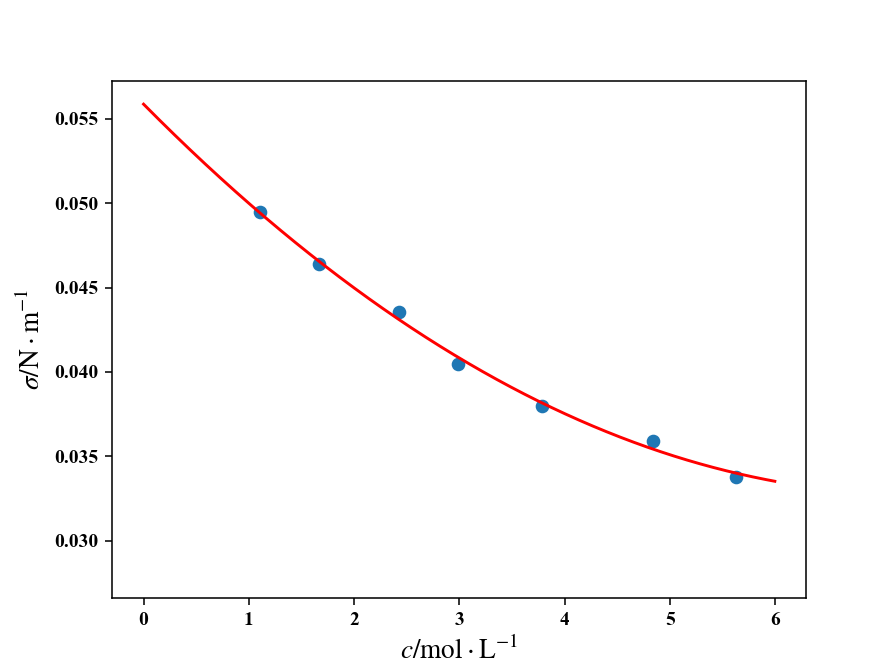
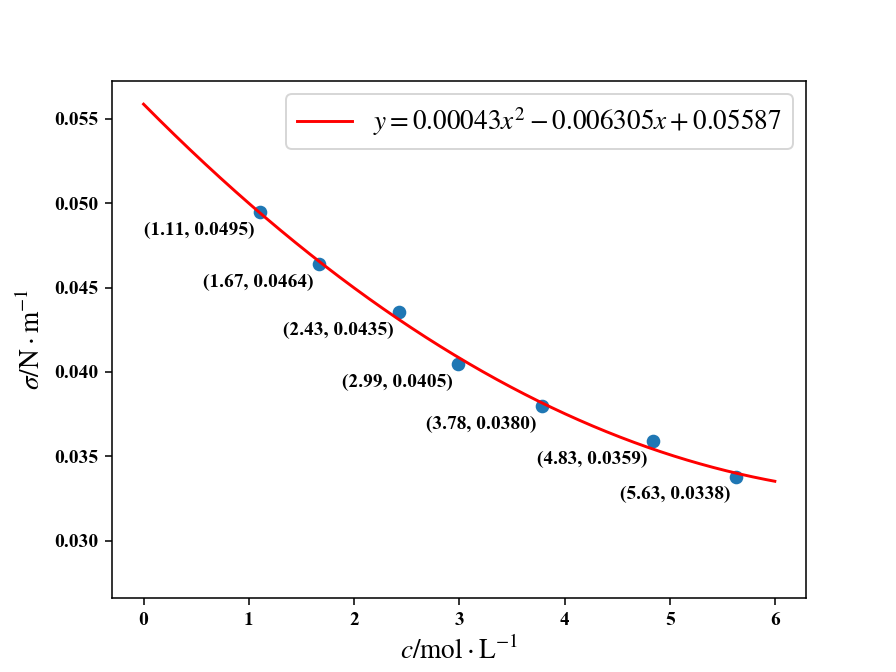
:zap: finish exp7

diff --git a/Exp7_1.py b/Exp7_1.py
@@ -1,7 +1,7 @@
 import numpy as np
 import matplotlib.pyplot as plt
 from matplotlib import rcParams
-from Exp7_data import lquin, sol
+from Exp7_data import lquin, c, fit, df, gama, sigma
 
 config = {
     "font.family":'serif',
@@ -12,14 +12,8 @@ config = {
 rcParams.update(config)
 plt.rcParams['font.serif'] = ['Times New Roman']
 
-p = np.array([0.259, 0.243, 0.228, 0.212, 0.199, 0.188, 0.177])
-p = p
-K = 71.79/376
-s = p * K
-
-fit = np.poly1d(np.polyfit(sol(lquin), s, 2))
 print('f(x) = ', fit)
-print('df/dx = ',fit.deriv())
+print('df/dx = ',df)
 line_x = np.arange(0, 6, 0.005)
 
 plt.xticks(fontsize=10)
@@ -27,8 +21,12 @@ plt.yticks(fontsize=10)
 plt.xlabel('$c\mathrm{/mol\cdot L^{-1}}$', fontsize=14)
 plt.ylabel('$\sigma \mathrm{/N\cdot m^{-1}}$', fontsize=14)
 
-plt.scatter(sol(lquin), s)
-plt.plot(line_x, fit(line_x), c='r')
+plt.scatter(c, sigma)
+plt.plot(line_x, fit(line_x), c='r', label='$y=0.00043x^{2}-0.006305x+0.05587$')
+for i in range(len(lquin)):
+    plt.annotate('(%.2f, %.4f)'%(c[i], sigma[i]), xy=(c[i]-1.1, sigma[i]-0.0013))
+    print("f'(%f) = "%c[i], df(c[i]))
+    print("Gama = ", gama[i])
 
-
+plt.legend(fontsize=14)
 plt.show()

diff --git a/Exp7_0.py b/Exp7_0.py
@@ -1,7 +1,7 @@
 import numpy as np
 import matplotlib.pyplot as plt
 from matplotlib import rcParams
-from  Exp7_data import c, n, lquin, sol
+from  Exp7_data import std, n, lquin, sol, c
 
 config = {
     "font.family":'serif',
@@ -13,8 +13,7 @@ rcParams.update(config)
 plt.rcParams['font.serif'] = ['Times New Roman']
 
 
-fit = np.poly1d(np.polyfit(c, n, 1))
-#sol = np.poly1d(np.polyfit(n, c, 1))
+fit = np.poly1d(np.polyfit(std, n, 1))
 print('func = ', fit)
 print('func = ', sol)
 line_x = [0, 10]
@@ -23,10 +22,10 @@ plt.xticks(fontsize=10)
 plt.yticks(fontsize=10)
 plt.xlabel('$c\mathrm{/mol\cdot L^{-1}}$', fontsize=14)
 plt.ylabel('$n$', fontsize=14)
-plt.scatter(c, n, label='standard sample')
-plt.scatter(sol(lquin), lquin, marker='^', label='solution sample')
+plt.scatter(std, n, label='standard sample')
+plt.scatter(c, lquin, marker='^', label='solution sample')
 for i in range(len(lquin)):
-    plt.annotate('(%.4f, %.4f)'%(sol(lquin)[i], lquin[i]), xy=(sol(lquin)[i], lquin[i]-0.0016))
+    plt.annotate('(%.4f, %.4f)'%(c[i], lquin[i]), xy=(c[i], lquin[i]-0.0016))
 
 plt.plot(line_x, fit(line_x), c='r', label='$y=0.003012x+1.332$')
 

diff --git a/Exp7_2.py b/Exp7_2.py
@@ -1,0 +1,29 @@
+import numpy as np
+import matplotlib.pyplot as plt
+from matplotlib import rcParams
+from Exp7_data import c, gama
+
+config = {
+    "font.family":'serif',
+    "mathtext.fontset":'stix',
+    "font.serif": ['SimSun'],
+    'figure.dpi':'140',
+}
+rcParams.update(config)
+plt.rcParams['font.serif'] = ['Times New Roman']
+
+fit = np.poly1d(np.polyfit(c, c/gama, 1))
+print("func = ", fit)
+print("limit Gama = ", 1/fit.deriv())
+
+line_x=[1, 6]
+plt.xticks(fontsize=10)
+plt.yticks(fontsize=10)
+ax = plt.gca()
+ax.yaxis.get_major_formatter().set_powerlimits((0,1))
+plt.xlabel(r'$c\mathrm{/mol\cdot L^{-1}}$', fontsize=14)
+plt.ylabel(r'$\frac{c}{\Gamma}\mathrm{/10^{-3}m^{-1}}$', fontsize=14)
+plt.scatter(c, c/gama)
+plt.plot(line_x, fit(line_x), c='r', label='$y=251300x+34190$')
+plt.legend(fontsize=14)
+plt.show()

diff --git a/Exp7_data.py b/Exp7_data.py
@@ -1,7 +1,17 @@
 import numpy as np
 
 
-c = np.array([1.0535, 2.1140, 3.0582, 4.4850, 5.7937, 6.3979, 7.5026, 8.5997])
+std = np.array([1.0535, 2.1140, 3.0582, 4.4850, 5.7937, 6.3979, 7.5026, 8.5997])
 n = np.array([1.3352, 1.3375, 1.3416, 1.3465, 1.3489, 1.3505, 1.3552, 1.3576])
 lquin = np.array([1.3352, 1.3369, 1.3392, 1.3409, 1.3433, 1.3465, 1.3489])
-sol = np.poly1d(np.polyfit(n, c, 1))
+sol = np.poly1d(np.polyfit(n, std, 1))
+c = sol(lquin)
+
+p = np.array([0.259, 0.243, 0.228, 0.212, 0.199, 0.188, 0.177])
+p = p
+K = 71.79/376
+sigma = p * K
+
+fit = np.poly1d(np.polyfit(c, sigma, 2))
+df = fit.deriv()
+gama = -df(c)*c/(8.314*298)
